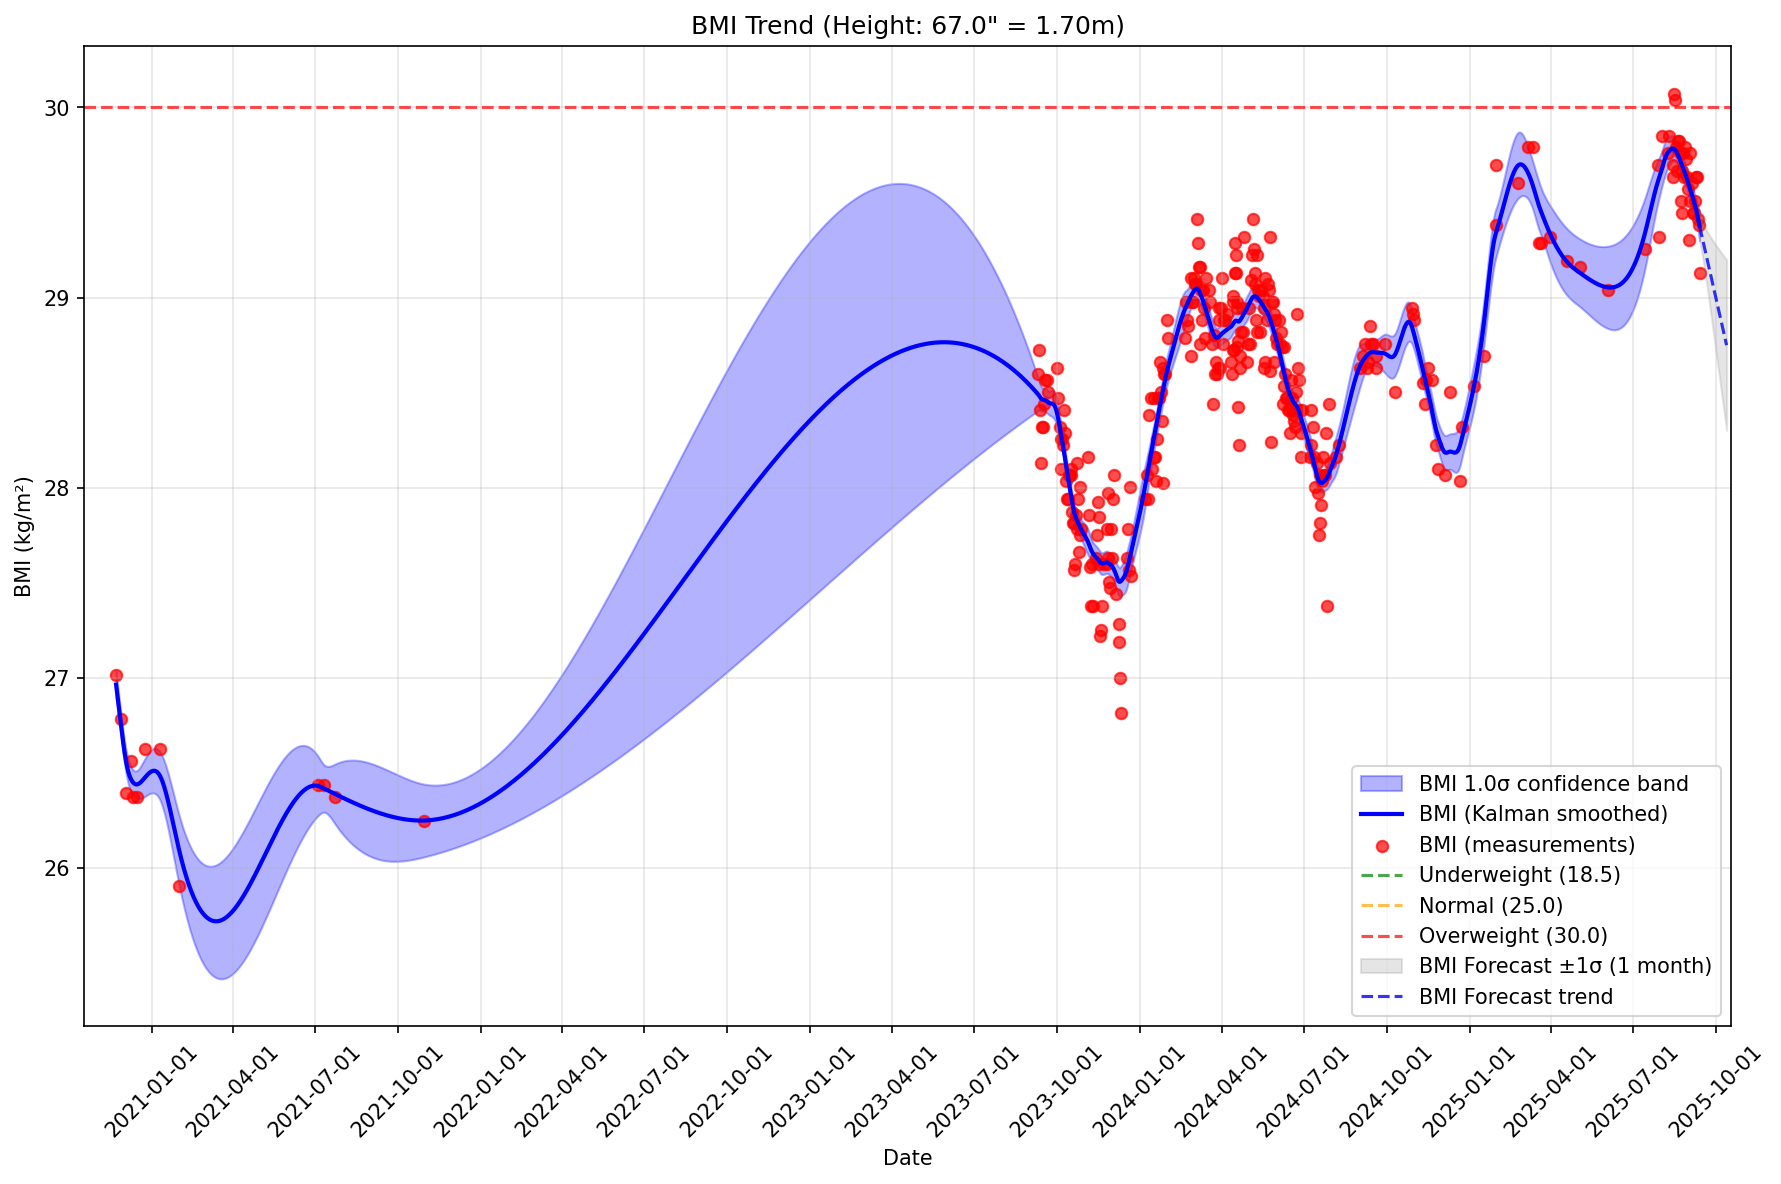
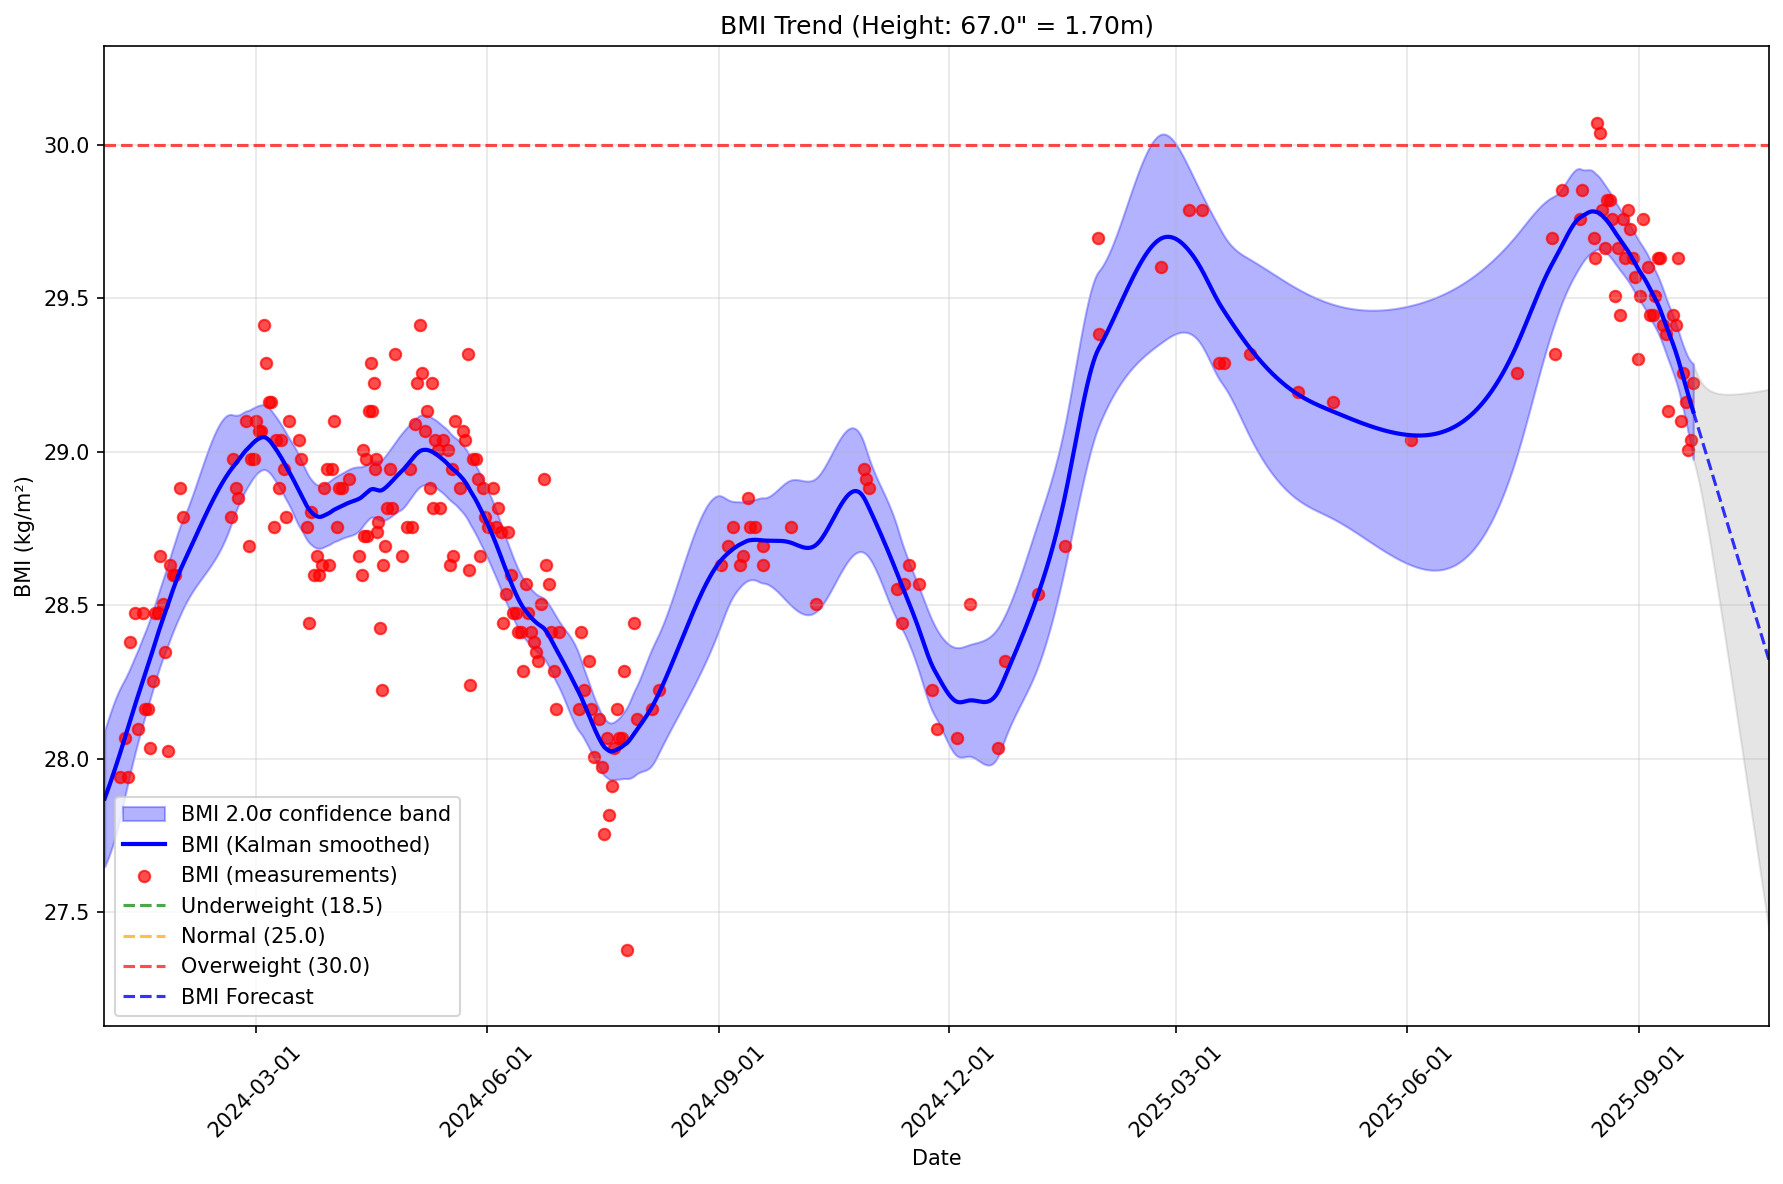
fixed y-range issues

diff --git a/kalman.py b/kalman.py
@@ -674,7 +674,7 @@ Forecasts:
 1 month: {month_forecast:.2f} ± {ci_multiplier * month_std:.2f}"""
     
     # Add forecasting fan if enabled
-    if enable_forecast and not (start_date or end_date):  # Only show forecast when not filtering by date
+    if enable_forecast:  # Show forecast even when filtering by date
         # Create forecast dates (1 month = 30 days) - start from day 0 to eliminate gap
         forecast_days = 30
         last_date = dense_datetimes[-1]
@@ -725,7 +725,8 @@ Forecasts:
         span = right - left
         pad = max(span * 0.02, timedelta(days=1))
         left_pad = left if start_date else (left - pad)
-        right_pad = right if end_date else (right + pad)
+        # Always extend 30 days into the future, regardless of date filtering
+        right_pad = right + timedelta(days=30) if end_date else (right + timedelta(days=30))
         plt.xlim(left=left_pad, right=right_pad)
     
     # After setting x-limits, set Y-limits based on visible series (bands, mean, points)
@@ -738,6 +739,11 @@ Forecasts:
             y_values.extend([float(v) for v in dense_means])
         if raw_weights:
             y_values.extend([float(v) for v in raw_weights])
+        # Include forecast values in y-axis range calculation
+        if enable_forecast and 'forecast_weights' in locals():
+            y_values.extend([float(v) for v in forecast_weights])
+            y_values.extend([float(v) for v in forecast_upper])
+            y_values.extend([float(v) for v in forecast_lower])
         if y_values:
             y_min = float(np.nanmin(np.array(y_values, dtype=float)))
             y_max = float(np.nanmax(np.array(y_values, dtype=float)))
@@ -1067,7 +1073,7 @@ def create_bodyfat_plot_from_kalman(
         return bf_mid_val, halfwidth
 
     # Add forecasting fan if enabled
-    if enable_forecast and not (start_date or end_date):  # Only show forecast when not filtering by date
+    if enable_forecast:  # Show forecast even when filtering by date
         # Create forecast dates (1 month = 30 days) - start from day 0 to eliminate gap
         forecast_days = 30
         last_date = dense_datetimes[-1]
@@ -1136,7 +1142,8 @@ def create_bodyfat_plot_from_kalman(
         span = right - left
         pad = max(span * 0.02, timedelta(days=1))
         left_pad = left if start_date else (left - pad)
-        right_pad = right if end_date else (right + pad)
+        # Always extend 30 days into the future, regardless of date filtering
+        right_pad = right + timedelta(days=30) if end_date else (right + timedelta(days=30))
         plt.xlim(left=left_pad, right=right_pad)
     
     # After setting x-limits, compute Y-limits from visible series
@@ -1152,6 +1159,11 @@ def create_bodyfat_plot_from_kalman(
             y_values.extend([float(v) for v in bf_upper_bound])
         # Scatter points
         y_values.extend([float(v) for v in entry_bf_mid_plot])
+        # Include forecast values in y-axis range calculation
+        if enable_forecast and 'forecast_bf_mid' in locals():
+            y_values.extend([float(v) for v in forecast_bf_mid])
+            y_values.extend([float(v) for v in forecast_bf_upper])
+            y_values.extend([float(v) for v in forecast_bf_lower])
         if y_values:
             y_min = float(np.nanmin(np.array(y_values, dtype=float)))
             y_max = float(np.nanmax(np.array(y_values, dtype=float)))
@@ -1364,7 +1376,7 @@ def create_bmi_plot_from_kalman(
     plt.axhline(y=30.0, color="red", linestyle="--", alpha=0.7, label="Overweight (30.0)")
 
     # Add forecasting fan if enabled
-    if enable_forecast and not (start_date or end_date):  # Only show forecast when not filtering by date
+    if enable_forecast:  # Show forecast even when filtering by date
         # Get the last state for forecasting
         last_state = states[-1]
         last_date = dates[-1]
@@ -1427,7 +1439,8 @@ def create_bmi_plot_from_kalman(
         span = right - left
         pad = max(span * 0.02, timedelta(days=1))
         left_pad = left if start_date else (left - pad)
-        right_pad = right if end_date else (right + pad)
+        # Always extend 30 days into the future, regardless of date filtering
+        right_pad = right + timedelta(days=30) if end_date else (right + timedelta(days=30))
         plt.xlim(left=left_pad, right=right_pad)
     
     # After setting x-limits, compute Y-limits from visible series
@@ -1439,6 +1452,11 @@ def create_bmi_plot_from_kalman(
         y_values.extend([float(v) for v in bmi_means])
         # Scatter points
         y_values.extend([float(v) for v in entry_bmi_plot])
+        # Include forecast values in y-axis range calculation
+        if enable_forecast and 'forecast_bmi' in locals():
+            y_values.extend([float(v) for v in forecast_bmi])
+            y_values.extend([float(v) for v in forecast_upper])
+            y_values.extend([float(v) for v in forecast_lower])
         if y_values:
             y_min = float(np.nanmin(np.array(y_values, dtype=float)))
             y_max = float(np.nanmax(np.array(y_values, dtype=float)))
@@ -1630,7 +1648,7 @@ def create_ffmi_plot_from_kalman(
     plt.axhline(y=22.0, color="blue", linestyle="--", alpha=0.7, label="Excellent (22.0)")
 
     # Add forecasting fan if enabled
-    if enable_forecast and not (start_date or end_date):  # Only show forecast when not filtering by date
+    if enable_forecast:  # Show forecast even when filtering by date
         # Get the last state for forecasting
         last_state = states[-1]
         last_date = dates[-1]
@@ -1710,15 +1728,18 @@ def create_ffmi_plot_from_kalman(
             plt.xlim(left=min_datetime)
         if end_date:
             end_datetime = dt.combine(end_date, dt.max.time())
-            plt.xlim(right=end_datetime)
+            # Always extend 30 days into the future, regardless of date filtering
+            plt.xlim(right=end_datetime + timedelta(days=30))
         elif max_datetime is not None:
-            plt.xlim(right=max_datetime)
+            # Always extend 30 days into the future, regardless of date filtering
+            plt.xlim(right=max_datetime + timedelta(days=30))
     else:
         # Default to full data range when no explicit start/end dates are provided
         if dates:
             min_datetime = min(dates)
             max_datetime = max(dates)
-            plt.xlim(left=min_datetime, right=max_datetime)
+            # Always extend 30 days into the future, regardless of date filtering
+            plt.xlim(left=min_datetime, right=max_datetime + timedelta(days=30))
     
     # After setting x-limits, compute Y-limits from visible series
     try:
@@ -1729,6 +1750,11 @@ def create_ffmi_plot_from_kalman(
         y_values.extend([float(v) for v in ffmi_means])
         # Scatter points
         y_values.extend([float(v) for v in entry_ffmi_plot])
+        # Include forecast values in y-axis range calculation
+        if enable_forecast and 'forecast_ffmi' in locals():
+            y_values.extend([float(v) for v in forecast_ffmi])
+            y_values.extend([float(v) for v in forecast_upper])
+            y_values.extend([float(v) for v in forecast_lower])
         if y_values:
             y_min = float(np.nanmin(np.array(y_values, dtype=float)))
             y_max = float(np.nanmax(np.array(y_values, dtype=float)))
